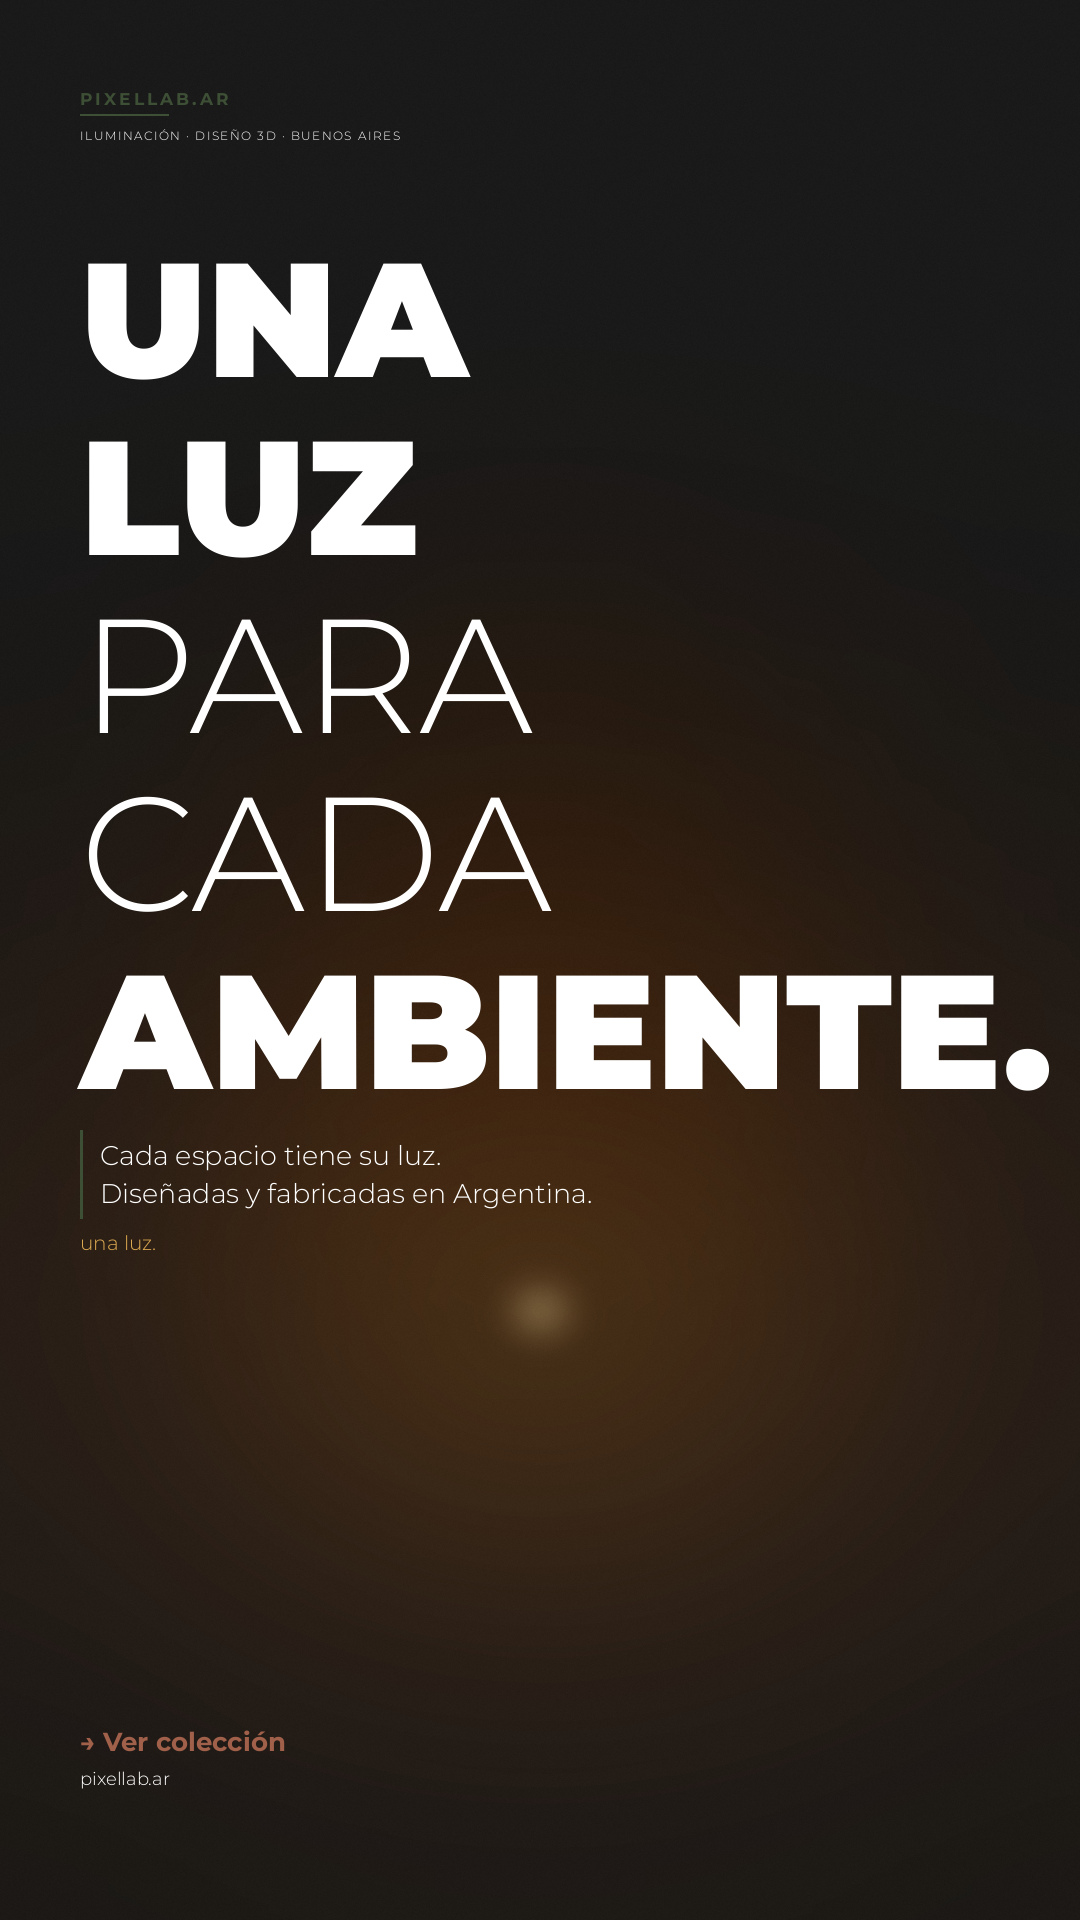
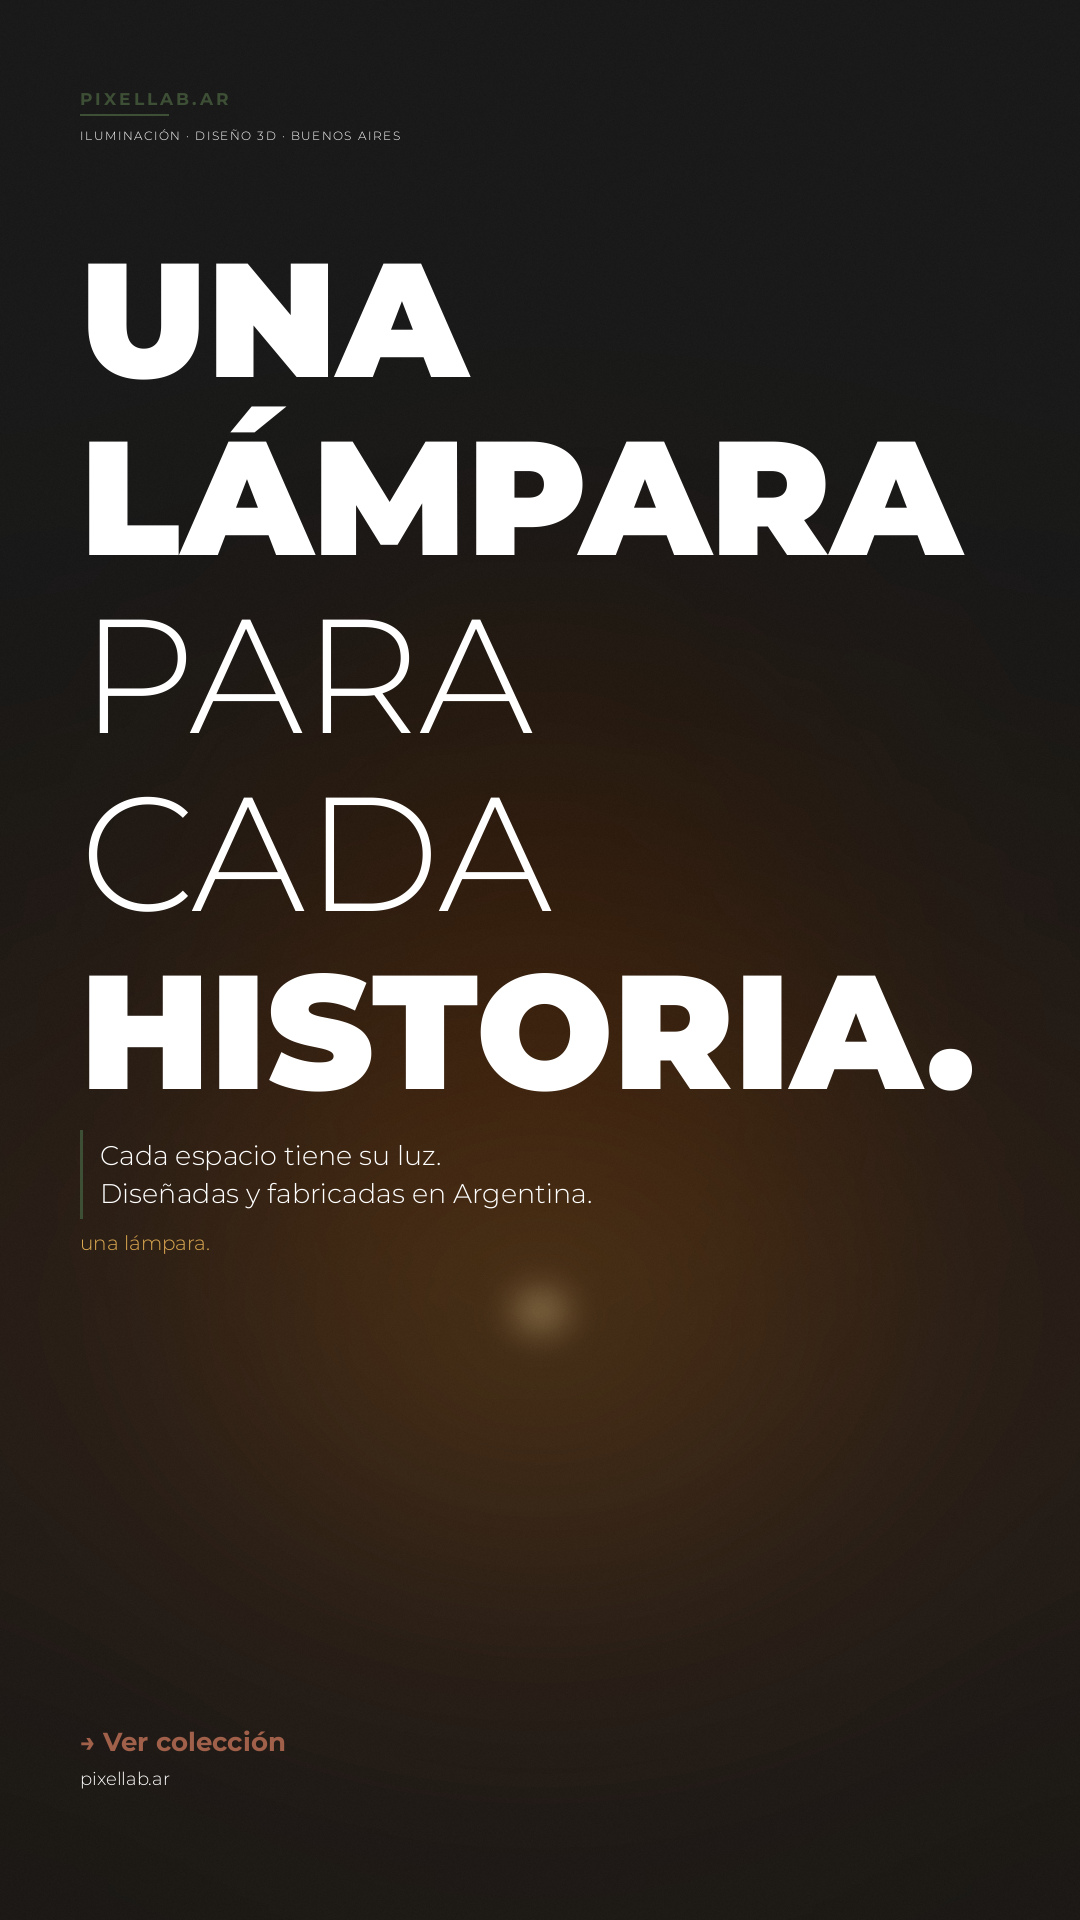
Update reel cover text to 'Una lámpara para cada historia'
https://claude.ai/code/session_01G7EKAo47PDtp1uH7791v4w

Changed region(s): [[0.0611, 0.5, 0.9778, 0.5938], [0.1528, 0.1875, 0.8861, 0.3125]]

diff --git a/generate_reel_cover.py b/generate_reel_cover.py
@@ -103,10 +103,10 @@ y0 = 220
 LH = 178   # line-height
 
 draw.text((M, y0),        "UNA",        font=f_blk, fill=WHITE)
-draw.text((M, y0+LH),     "LUZ",        font=f_blk, fill=WHITE)
+draw.text((M, y0+LH),     "LÁMPARA",    font=f_blk, fill=WHITE)
 draw.text((M, y0+LH*2),   "PARA",       font=f_lgt, fill=WHITE_DIM)
 draw.text((M, y0+LH*3),   "CADA",       font=f_lgt, fill=WHITE_DIM)
-draw.text((M, y0+LH*4),   "AMBIENTE.",  font=f_blk, fill=WHITE)
+draw.text((M, y0+LH*4),   "HISTORIA.",  font=f_blk, fill=WHITE)
 
 # — VERTICAL RULE + TAGLINE —
 ty = y0 + LH*5 + 20    # ≈ 1130
@@ -118,7 +118,7 @@ draw.text((M+20, ty+46), "Diseñadas y fabricadas en Argentina.", font=f_tag, fi
 
 # — GLOW LABEL (floats near the light source) —
 f_glo = font("Montserrat-Light-static.ttf", 20)
-draw.text((M, GY - 80), "una luz.", font=f_glo, fill=(220, 168, 80, 90))
+draw.text((M, GY - 80), "una lámpara.", font=f_glo, fill=(220, 168, 80, 90))
 
 # — CTA (placeholder — reemplazar cuando el usuario confirme) —
 f_cta  = font("Montserrat-Bold-static.ttf", 26)
